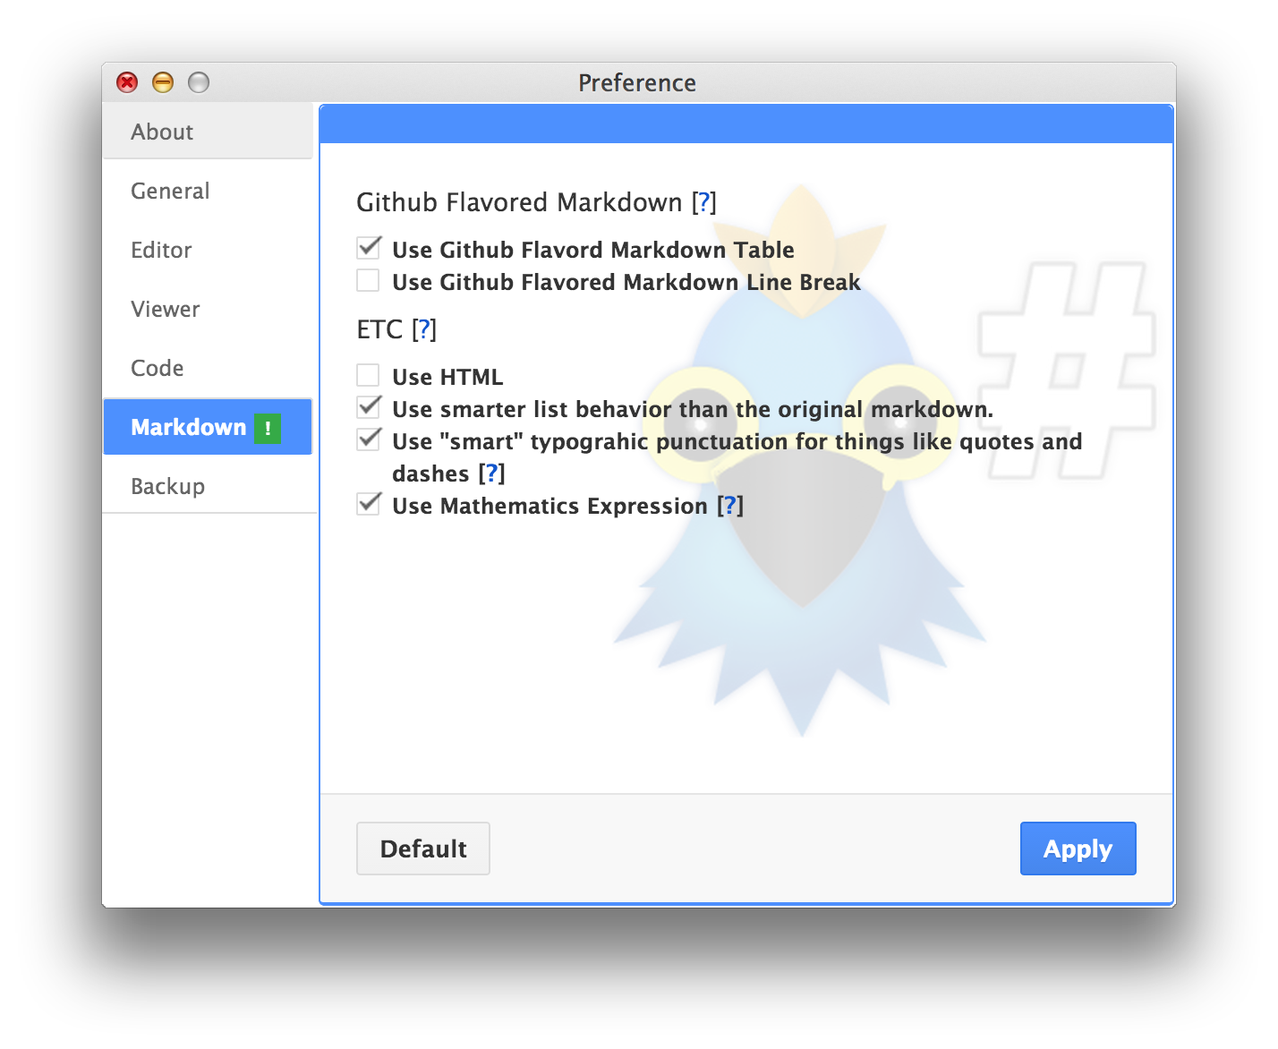
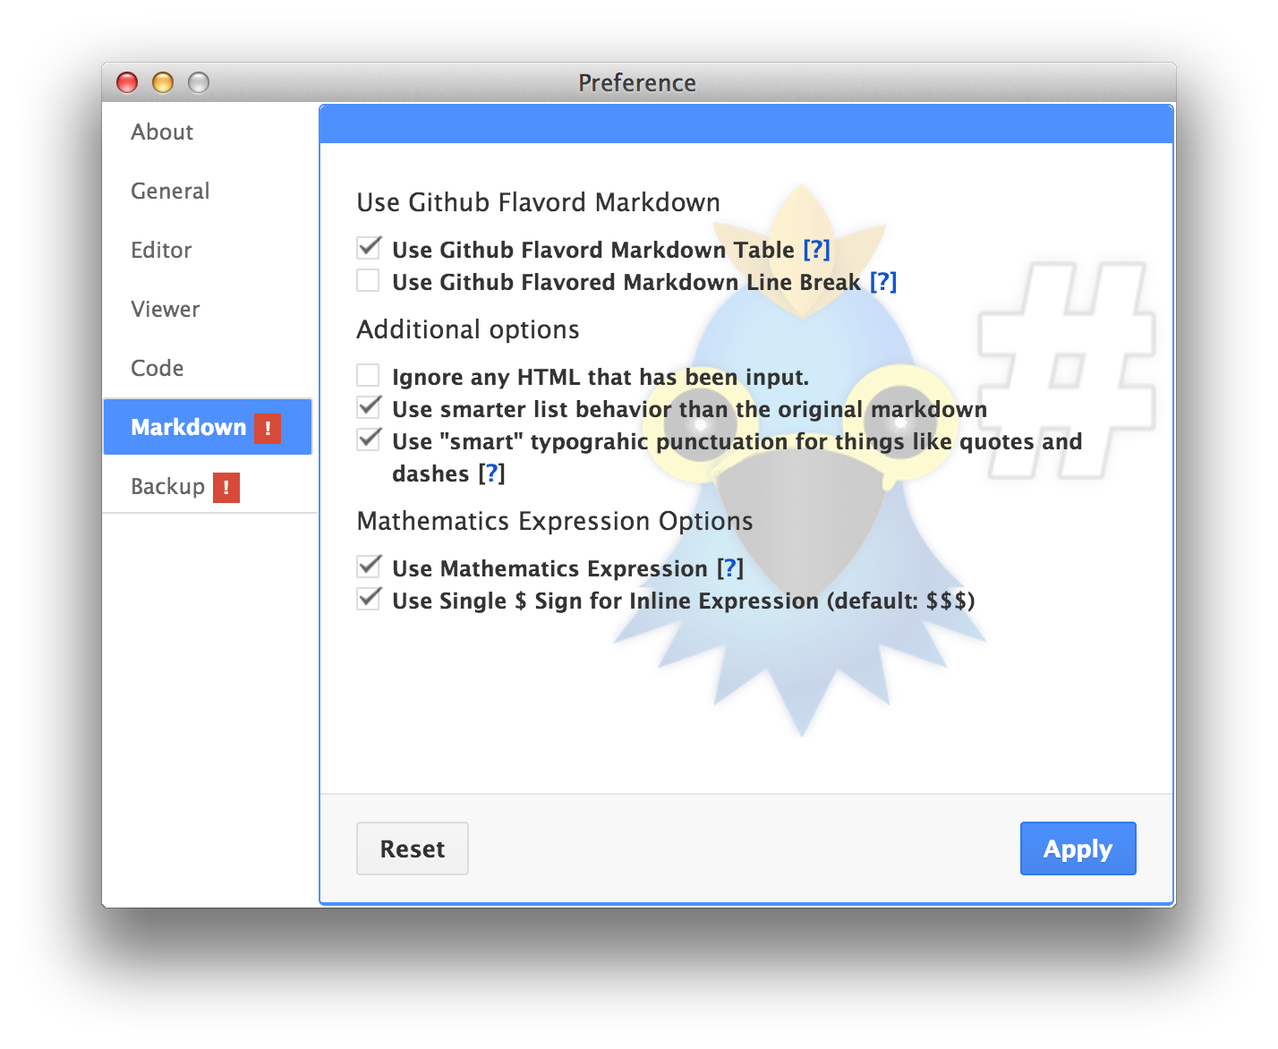
update download link & update manual for v0.11.1

diff --git a/user.html b/user.html
@@ -81,12 +81,12 @@
                       <span class="navbar-unread">1</span>
                     </a>
                     <ul>
-                      <li><a href="https://dl.dropbox.com/s/q7j7feiry65zywu/haroopad-v0.11.0-i386.msi" onclick="_gaq.push(['_trackEvent', 'download', 'window', '0.11.0']);" target="_blank">Window 7, 8</a></li>
-                      <li><a href="https://dl.dropbox.com/s/30wgt7osktvhpb5/haroopad-v0.11.0.dmg" onclick="_gaq.push(['_trackEvent', 'download', 'mac', '0.11.0']);" target="_blank">Mac OS</a></li>
-                      <li><a href="https://dl.dropbox.com/s/c4k13pbp9rt0fi1/haroopad-v0.11.0_i386.tar.gz" onclick="_gaq.push(['_trackEvent', 'download', 'linux32bin', '0.11.0']);" target="_blank">Linux Binary (32bit)</a></li>
-                      <li><a href="https://dl.dropbox.com/s/fhmy9fssd8m0hrr/haroopad-v0.11.0-i386.deb" onclick="_gaq.push(['_trackEvent', 'download', 'linux32deb', '0.11.0']);" target="_blank">Linux Debian Package (32bit)</a></li>
-                      <li><a href="https://dl.dropbox.com/s/oveh9gvbjld46pw/haroopad-v0.11.0_amd64.tar.gz" onclick="_gaq.push(['_trackEvent', 'download', 'linux64bin', '0.11.0']);" target="_blank">Linux Binary (64bit)</a></li>
-                      <li><a href="https://dl.dropbox.com/s/qroboui3on1kxu2/haroopad-v0.11.0_amd64.deb" onclick="_gaq.push(['_trackEvent', 'download', 'linux64deb', '0.11.0']);" target="_blank">Linux Debian Package (64bit)</a></li>
+                      <li><a href="https://dl.dropbox.com/s/aqz9deb54le3b1b/haroopad-v0.11.1-i386.msi" onclick="_gaq.push(['_trackEvent', 'download', 'window', '0.11.1']);" target="_blank">Window 7, 8</a></li>
+                      <li><a href="https://dl.dropbox.com/s/dhclfu538188yox/haroopad-v0.11.1.dmg" onclick="_gaq.push(['_trackEvent', 'download', 'mac', '0.11.1']);" target="_blank">Mac OS</a></li>
+                      <li><a href="https://dl.dropbox.com/s/rnvq59dcytz6z8z/haroopad-v0.11.1_i386.tar.gz" onclick="_gaq.push(['_trackEvent', 'download', 'linux32bin', '0.11.1']);" target="_blank">Linux Binary (32bit)</a></li>
+                      <li><a href="https://dl.dropbox.com/s/d1x3fap7sk57p02/haroopad-v0.11.1-i386.deb" onclick="_gaq.push(['_trackEvent', 'download', 'linux32deb', '0.11.1']);" target="_blank">Linux Debian Package (32bit)</a></li>
+                      <li><a href="https://dl.dropbox.com/s/2ncg44ybixjezzq/haroopad-v0.11.1_amd64.tar.gz" onclick="_gaq.push(['_trackEvent', 'download', 'linux64bin', '0.11.1']);" target="_blank">Linux Binary (64bit)</a></li>
+                      <li><a href="https://dl.dropbox.com/s/2km44jkax2lsarf/haroopad-v0.11.1_amd64.deb" onclick="_gaq.push(['_trackEvent', 'download', 'linux64deb', '0.11.1']);" target="_blank">Linux Debian Package (64bit)</a></li>
                     </ul> <!-- /Sub menu -->
                   </li>
                   <li>
@@ -391,27 +391,27 @@
       <!-- <h1 class="demo-panel-title page-header">Downloads</h1> -->
       <div id="download-area" class="row" style="text-align: center; margin-top:30px">
         <div class="span4">
-          <a href="https://dl.dropbox.com/s/q7j7feiry65zywu/haroopad-v0.11.0-i386.msi" onclick="_gaq.push(['_trackEvent', 'download', 'window', '0.11.0']);" target="_blank">
+          <a href="https://dl.dropbox.com/s/aqz9deb54le3b1b/haroopad-v0.11.1-i386.msi" onclick="_gaq.push(['_trackEvent', 'download', 'window', '0.11.1']);" target="_blank">
             <img src="assets/images/windows-8-logo.jpg" width="160" class="demo-tiles">
           </a>
           </br>
           <h4>window</h4>
-          <span><a href="https://dl.dropbox.com/s/q7j7feiry65zywu/haroopad-v0.11.0-i386.msi" onclick="_gaq.push(['_trackEvent', 'download', 'window', '0.11.0']);" target="_blank">v0.11.0-i386.msi</a></span>
+          <span><a href="https://dl.dropbox.com/s/aqz9deb54le3b1b/haroopad-v0.11.1-i386.msi" onclick="_gaq.push(['_trackEvent', 'download', 'window', '0.11.1']);" target="_blank">v0.11.1-i386.msi</a></span>
         </div>
         <div class="span4">
-          <a href="https://dl.dropbox.com/s/30wgt7osktvhpb5/haroopad-v0.11.0.dmg" onclick="_gaq.push(['_trackEvent', 'download', 'mac', '0.11.0']);" target="_blank">
+          <a href="https://dl.dropbox.com/s/dhclfu538188yox/haroopad-v0.11.1.dmg" onclick="_gaq.push(['_trackEvent', 'download', 'mac', '0.11.1']);" target="_blank">
             <img src="assets/images/Apple2.png" width="138" class="demo-tiles">
           </a>
           </br>
           <h4>mac</h4>
-          <span><a href="https://dl.dropbox.com/s/30wgt7osktvhpb5/haroopad-v0.11.0.dmg" onclick="_gaq.push(['_trackEvent', 'download', 'mac', '0.11.0']);" target="_blank">v0.11.0.dmg</a></span>
+          <span><a href="https://dl.dropbox.com/s/dhclfu538188yox/haroopad-v0.11.1.dmg" onclick="_gaq.push(['_trackEvent', 'download', 'mac', '0.11.1']);" target="_blank">v0.11.1.dmg</a></span>
         </div>
         <div class="span4">
           <img src="assets/images/Ubuntu_logo_copyleft_1.svg.png" width="160" class="demo-tiles">
           </br>
           <h4>linux</h4>
-          <span><a href="https://dl.dropbox.com/s/c4k13pbp9rt0fi1/haroopad-v0.11.0_i386.tar.gz" onclick="_gaq.push(['_trackEvent', 'download', 'linux32bin', '0.11.0']);" target="_blank">v0.11.0_i386.tar.gz</a> / <a href="https://dl.dropbox.com/s/fhmy9fssd8m0hrr/haroopad-v0.11.0-i386.deb" onclick="_gaq.push(['_trackEvent', 'download', 'linux32deb', '0.11.0']);" target="_blank">v0.11.0-i386.deb</a></span><br/>
-          <span><a href="https://dl.dropbox.com/s/oveh9gvbjld46pw/haroopad-v0.11.0_amd64.tar.gz" onclick="_gaq.push(['_trackEvent', 'download', 'linux64bin', '0.11.0']);" target="_blank">v0.11.0_amd64.tar.gz</a> / <a href="https://dl.dropbox.com/s/qroboui3on1kxu2/haroopad-v0.11.0_amd64.deb" onclick="_gaq.push(['_trackEvent', 'download', 'linux64bin', '0.11.0']);" target="_blank">v0.11.0_amd64.deb</a></span>
+          <span><a href="https://dl.dropbox.com/s/rnvq59dcytz6z8z/haroopad-v0.11.1_i386.tar.gz" onclick="_gaq.push(['_trackEvent', 'download', 'linux32bin', '0.11.1']);" target="_blank">v0.11.1_i386.tar.gz</a> / <a href="https://dl.dropbox.com/s/d1x3fap7sk57p02/haroopad-v0.11.1-i386.deb" onclick="_gaq.push(['_trackEvent', 'download', 'linux32deb', '0.11.1']);" target="_blank">v0.11.1-i386.deb</a></span><br/>
+          <span><a href="https://dl.dropbox.com/s/2ncg44ybixjezzq/haroopad-v0.11.1_amd64.tar.gz" onclick="_gaq.push(['_trackEvent', 'download', 'linux64bin', '0.11.1']);" target="_blank">v0.11.1_amd64.tar.gz</a> / <a href="https://dl.dropbox.com/s/2km44jkax2lsarf/haroopad-v0.11.1_amd64.deb" onclick="_gaq.push(['_trackEvent', 'download', 'linux64bin', '0.11.1']);" target="_blank">v0.11.1_amd64.deb</a></span>
         </div>
 
         <a name="support"></a>
@@ -552,7 +552,7 @@
     <!--div style="background-color: #2980B9; color: #ECF0F1;">
       <div class="rule" style=""><i></i></div>
       <div class="container">
-      <h1 class="demo-panel-title page-header">v0.11.0 Major Features</h1>
+      <h1 class="demo-panel-title page-header">v0.11.1 Major Features</h1>
         <div class="row demo-tiles">
           <div class="span12">
             <h3>Markdown Autocompletion</h3>
@@ -561,7 +561,7 @@
             <img src="/assets/images/intro/10.png" />
           </div>
           <div class="span6 text-center">
-            <img src="/assets/images/0.11.0/v0.11.0-002.gif" />
+            <img src="/assets/images/0.11.1/v0.11.1-002.gif" />
           </div>
         </div>
         <div class="row demo-tiles">
@@ -569,10 +569,10 @@
             <h3>Table of Contents</h3>
           </div>
           <div class="span6 text-center">
-            <img src="/assets/images/0.11.0/v0.11.0-toc3.png" />
+            <img src="/assets/images/0.11.1/v0.11.1-toc3.png" />
           </div>
           <div class="span6 text-center">
-            <img src="/assets/images/0.11.0/v0.11.0-toc2.png" />
+            <img src="/assets/images/0.11.1/v0.11.1-toc2.png" />
           </div>
         </div>
       </div>

diff --git a/page.html b/page.html
@@ -102,13 +102,14 @@
               <li><a href="?f=markdown">Markdown?</a></li>
               <li><a href="?f=syntax">Markdown syntax</a></li>
               <li><a href="?f=markdown-extras">Extra Markdown</a></li>
-              <li><a href="?f=haroopad-flavored-markdown">Haroopad Flavored Markdown <span class="label label-info">info</span></a></li>
+              <li><a href="?f=multimarkdown">MultiMarkdown <span class="label label-important">new</span></a></li>
+              <li><a href="?f=haroopad-flavored-markdown">Haroopad Flavored Markdown <span class="label label-info">update</span></a></li>
               <li><a href="?f=markdown-doc-logos">Markdown Logo Ideas</a></li>
               <li class="nav-header">Markdown</li>
-              <li><a href="?f=markdown-toc">Table of Contents <span class="label label-important"> new</span></a></li>
-              <li><a href="?f=how-to-use-image-align">Image Alignment <span class="label label-important">new</span></a></li>
-              <li><a href="?f=how-to-write-table">Writing Table <span class="label label-important">new</span></a></li>
-              <li><a href="?f=how-to-write-fenced-code-block">Fenced Code Block <span class="label label-important">new</span></a></li>
+              <li><a href="?f=markdown-toc">Table of Contents <span class="label label-info">update</span></a></li>
+              <li><a href="?f=how-to-write-audio-and-video">Audio and Video <span class="label label-important">new</span></a></li><li><a href="?f=how-to-use-image-align">Image Alignment</a></li>
+              <li><a href="?f=how-to-write-table">Writing Table</a></li>
+              <li><a href="?f=how-to-write-fenced-code-block">Fenced Code Block</a></li>
               <li>
                 <a href="?f=smart-embedding-rich-media">Embedding Rich Media</a>
                 <ul>
@@ -139,9 +140,9 @@
                 <ul>
                   <li><a href="?f=configuration-editor">Configuration Editor</a></li>
                   <li><a href="?f=configuration-viewer">Configuration Viewer</a></li>
-                  <li><a href="?f=preferences-markdown-options">Markdown Options<span class="label label-important"> new</span></a></li>
-                  <li><a href="?f=import-and-export-settings">Import and Export Settings<span class="label label-important"> new</span></a></li>
-                  <li><a href="?f=customizing-editor-style">Customizing Editor Style<span class="label label-important"> new</span></a></li>
+                  <li><a href="?f=preferences-markdown-options">Markdown Options <span class="label label-info">update</span></a></li>
+                  <li><a href="?f=import-and-export-settings">Import and Export Settings</a></li>
+                  <li><a href="?f=customizing-editor-style">Customizing Editor Style</a></li>
                   <!-- <li><a href="?f=preferences-custom-theme">Configuration Custom Theme</a></li> -->
                   <li><a href="?f=font-size">Font Size</a></li>
                 </ul>

diff --git a/docs/en/multimarkdown/index.md b/docs/en/multimarkdown/index.md
@@ -1,0 +1,23 @@
+# Multi-Markdown
+
+### Underline
+
+```markdown
+An ++underline++, also called an underscore is one or more ++horizontal lines++ immediately below a portion of writing.
+```
+
+An ++underline++, also called an underscore is one or more ++horizontal lines++ immediately below a portion of writing.
+
+### Superscript & Subscript
+
+A subscript or superscript is a number, figure, symbol, or indicator that is smaller than the normal line of type and is set slightly below or above it – subscripts appear at or below the baseline, while superscripts are above. Subscripts and superscripts are perhaps best known for their use in formulas, mathematical expressions, and specifications of chemical compounds and isotopes, but have many other uses as well.
+
+```markdown
+Ordinal indicators are sometimes written as superscripts (1^st^, 2^nd^, 3^rd^, 4^th^, rather than 1st, 2nd, 3rd, 4th), although many English-language style guides recommend against this use. Other languages use a similar convention, such as 1^er^ or 2^e^ in French, or 4ª and 4º in Italian, Portuguese, and Spanish.
+
+Also in mathematics and computing, a subscript can be used to represent the radix, or base, of a written number, especially where multiple bases are used alongside each other. For example, comparing values in hexadecimal, denary, and octal one might write C~hex~ = 12~dec~ = 14~oct~.
+```
+
+Ordinal indicators are sometimes written as superscripts (1^st^, 2^nd^, 3^rd^, 4^th^, rather than 1st, 2nd, 3rd, 4th), although many English-language style guides recommend against this use. Other languages use a similar convention, such as 1^er^ or 2^e^ in French, or 4ª and 4º in Italian, Portuguese, and Spanish.
+
+Also in mathematics and computing, a subscript can be used to represent the radix, or base, of a written number, especially where multiple bases are used alongside each other. For example, comparing values in hexadecimal, denary, and octal one might write C~hex~ = 12~dec~ = 14~oct~.

diff --git a/docs/ko/multimarkdown/index.md b/docs/ko/multimarkdown/index.md
@@ -1,0 +1,23 @@
+# Multi-Markdown
+
+### Underline
+
+```markdown
+An ++underline++, also called an underscore is one or more ++horizontal lines++ immediately below a portion of writing.
+```
+
+An ++underline++, also called an underscore is one or more ++horizontal lines++ immediately below a portion of writing.
+
+### Superscript & Subscript
+
+A subscript or superscript is a number, figure, symbol, or indicator that is smaller than the normal line of type and is set slightly below or above it – subscripts appear at or below the baseline, while superscripts are above. Subscripts and superscripts are perhaps best known for their use in formulas, mathematical expressions, and specifications of chemical compounds and isotopes, but have many other uses as well.
+
+```markdown
+Ordinal indicators are sometimes written as superscripts (1^st^, 2^nd^, 3^rd^, 4^th^, rather than 1st, 2nd, 3rd, 4th), although many English-language style guides recommend against this use. Other languages use a similar convention, such as 1^er^ or 2^e^ in French, or 4ª and 4º in Italian, Portuguese, and Spanish.
+
+Also in mathematics and computing, a subscript can be used to represent the radix, or base, of a written number, especially where multiple bases are used alongside each other. For example, comparing values in hexadecimal, denary, and octal one might write C~hex~ = 12~dec~ = 14~oct~.
+```
+
+Ordinal indicators are sometimes written as superscripts (1^st^, 2^nd^, 3^rd^, 4^th^, rather than 1st, 2nd, 3rd, 4th), although many English-language style guides recommend against this use. Other languages use a similar convention, such as 1^er^ or 2^e^ in French, or 4ª and 4º in Italian, Portuguese, and Spanish.
+
+Also in mathematics and computing, a subscript can be used to represent the radix, or base, of a written number, especially where multiple bases are used alongside each other. For example, comparing values in hexadecimal, denary, and octal one might write C~hex~ = 12~dec~ = 14~oct~.

diff --git a/docs/ko/preferences-markdown-options/index.md b/docs/ko/preferences-markdown-options/index.md
@@ -6,7 +6,7 @@
 
 이러한 부분들을 해소하기 위해 하루패드에서는 몇가지 옵션을 제공합니다.
 
-![](./images/001.png)
+![](images/001.png)
 
 ### Github Flavored Markdown 설정
 
@@ -27,7 +27,6 @@
 * Use HTML
 * Use smarter list behavior than the original markdown
 * Use "smart" typographic punctuation for things like quotes and dashes
-* Use Mathematics Expression
 
 기타 옵션은 하나씩 살펴봅니다.
 
@@ -54,8 +53,19 @@
 > * `...` 말줄임 표현을 `…` 으로 변경
 
 
+### 수학표현식
+
+* Use Mathematics Expression
+* Use Signle $ sign for inline Expression (default: $$$)
+
 ##### Use Mathematics Expression
 
-수학 표현식은 본래 마크다운과는 별도로 LaTeX 문법을 사용하고 있지만 마크다운과 유연하게 연결되는 많이 사용됩니다.
+수학 표현식은 본래 마크다운과는 별도로 LaTeX 문법을 사용하고 있지만 마크다운과 유연하게 연계되어 많이 사용됩니다.
 
-하루패드에서 `$$`, `$$$` 을 통해 LaTeX 구문을 파싱하여 수학 표현식을 렌더링하게 됩니다. 
+하루패드에서 `$` 을 통해 LaTeX 구문을 파싱하여 수학 표현식을 렌더링하게 됩니다. 
+
+##### * Use Signle $ sign for inline Expression
+
+수학 표현식을 위해 사용되는 `$` 기호는 미국의 화폐 단위인 $ 기호를 사용하기 때문에 단일 $ 기호를 사용할 경우 마크다운 파싱에 오류가 발생할 수 있습니다.
+
+하지만 마크다운의 목표에 좀더 가깝게 인라인 수학 표현식에서 단일 $ 기호를 사용할 수 있도록 옵션을 제공합니다.

diff --git a/docs/en/preferences-markdown-options/index.md b/docs/en/preferences-markdown-options/index.md
@@ -27,7 +27,6 @@
 * Use HTML
 * Use smarter list behavior than the original markdown
 * Use "smart" typographic punctuation for things like quotes and dashes
-* Use Mathematics Expression
 
 기타 옵션은 하나씩 살펴봅니다.
 
@@ -54,8 +53,19 @@
 > * `...` 말줄임 표현을 `…` 으로 변경
 
 
+### 수학표현식
+
+* Use Mathematics Expression
+* Use Signle $ sign for inline Expression (default: $$$)
+
 ##### Use Mathematics Expression
 
-수학 표현식은 본래 마크다운과는 별도로 LaTeX 문법을 사용하고 있지만 마크다운과 유연하게 연결되는 많이 사용됩니다.
+수학 표현식은 본래 마크다운과는 별도로 LaTeX 문법을 사용하고 있지만 마크다운과 유연하게 연계되어 많이 사용됩니다.
 
-하루패드에서 `$$`, `$$$` 을 통해 LaTeX 구문을 파싱하여 수학 표현식을 렌더링하게 됩니다. 
+하루패드에서 `$` 을 통해 LaTeX 구문을 파싱하여 수학 표현식을 렌더링하게 됩니다. 
+
+##### * Use Signle $ sign for inline Expression
+
+수학 표현식을 위해 사용되는 `$` 기호는 미국의 화폐 단위인 $ 기호를 사용하기 때문에 단일 $ 기호를 사용할 경우 마크다운 파싱에 오류가 발생할 수 있습니다.
+
+하지만 마크다운의 목표에 좀더 가깝게 인라인 수학 표현식에서 단일 $ 기호를 사용할 수 있도록 옵션을 제공합니다.

diff --git a/docs/en/release-notes/index.md b/docs/en/release-notes/index.md
@@ -27,12 +27,12 @@ Issue Number     | Description
 
 ##### Download
 
-> * Windows MSI: https://www.dropbox.com/s/aqz9deb54le3b1b/haroopad-v0.11.1-i386.msi
-> * Mac OS X DMG: https://www.dropbox.com/s/dhclfu538188yox/haroopad-v0.11.1.dmg
-> * Linux 32-bit Binary: https://www.dropbox.com/s/rnvq59dcytz6z8z/haroopad-v0.11.1_i386.tar.gz
-> * Linux 32-bit Debian Package: https://www.dropbox.com/s/d1x3fap7sk57p02/haroopad-v0.11.1-i386.deb
-> * Linux 64-bit Binary: https://www.dropbox.com/s/2ncg44ybixjezzq/haroopad-v0.11.1_amd64.tar.gz
-> * Linux 64-bit Debian Package: https://www.dropbox.com/s/2km44jkax2lsarf/haroopad-v0.11.1_amd64.deb
+> * Windows MSI: https://dl.dropbox.com/s/aqz9deb54le3b1b/haroopad-v0.11.1-i386.msi
+> * Mac OS X DMG: https://dl.dropbox.com/s/dhclfu538188yox/haroopad-v0.11.1.dmg
+> * Linux 32-bit Binary: https://dl.dropbox.com/s/rnvq59dcytz6z8z/haroopad-v0.11.1_i386.tar.gz
+> * Linux 32-bit Debian Package: https://dl.dropbox.com/s/d1x3fap7sk57p02/haroopad-v0.11.1-i386.deb
+> * Linux 64-bit Binary: https://dl.dropbox.com/s/2ncg44ybixjezzq/haroopad-v0.11.1_amd64.tar.gz
+> * Linux 64-bit Debian Package: https://dl.dropbox.com/s/2km44jkax2lsarf/haroopad-v0.11.1_amd64.deb
 
 ## Haroopad v0.11.0
 

diff --git a/docs/ko/release-notes/index.md b/docs/ko/release-notes/index.md
@@ -27,12 +27,12 @@ Issue Number     | Description
 
 ##### Download
 
-> * Windows MSI: https://www.dropbox.com/s/aqz9deb54le3b1b/haroopad-v0.11.1-i386.msi
-> * Mac OS X DMG: https://www.dropbox.com/s/dhclfu538188yox/haroopad-v0.11.1.dmg
-> * Linux 32-bit Binary: https://www.dropbox.com/s/rnvq59dcytz6z8z/haroopad-v0.11.1_i386.tar.gz
-> * Linux 32-bit Debian Package: https://www.dropbox.com/s/d1x3fap7sk57p02/haroopad-v0.11.1-i386.deb
-> * Linux 64-bit Binary: https://www.dropbox.com/s/2ncg44ybixjezzq/haroopad-v0.11.1_amd64.tar.gz
-> * Linux 64-bit Debian Package: https://www.dropbox.com/s/2km44jkax2lsarf/haroopad-v0.11.1_amd64.deb
+> * Windows MSI: https://dl.dropbox.com/s/aqz9deb54le3b1b/haroopad-v0.11.1-i386.msi
+> * Mac OS X DMG: https://dl.dropbox.com/s/dhclfu538188yox/haroopad-v0.11.1.dmg
+> * Linux 32-bit Binary: https://dl.dropbox.com/s/rnvq59dcytz6z8z/haroopad-v0.11.1_i386.tar.gz
+> * Linux 32-bit Debian Package: https://dl.dropbox.com/s/d1x3fap7sk57p02/haroopad-v0.11.1-i386.deb
+> * Linux 64-bit Binary: https://dl.dropbox.com/s/2ncg44ybixjezzq/haroopad-v0.11.1_amd64.tar.gz
+> * Linux 64-bit Debian Package: https://dl.dropbox.com/s/2km44jkax2lsarf/haroopad-v0.11.1_amd64.deb
 
 
 ## Haroopad v0.11.0

diff --git a/docs/en/markdown-toc/index.md b/docs/en/markdown-toc/index.md
@@ -25,6 +25,29 @@ Chapter 1: Getting Started . . . . . . . . . . . 1
 
 물론 이 목차는 문서내, PDF/HTML 출력도 가능하며 메일을 보낼때에도 그대로 표현됩니다.
 
+### Table of Contents Syntax
+
+**마크다운 표현법**
+
+```markdown
+[TOC] or [toc]
+```
+
+**결과**
+
+[TOC]
+
+#### Alignment
+
+기본적으로 목차(TOC) 문법은 블럭 요소로 렌더링됩니다. 하지만 경우에 따라 문서내에 요소로 표현하기 위해 정렬 속성을 지정하기도 합니다. 하루패드에서는 다음과 같이 정렬뿐아니라 스타일 시트를 속성을 제공합니다.
+
+```markdown
+[TOC "float:right"]
+```
+
+위와 같이 하면 목차가 우측으로 정렬이 되고 문서내 플로팅 됩니다. 거꾸로 `float:left` 를 지정할 경우 왼쪽 정렬으로 설정됩니다.
+
+
 ### 목차 추가기능
 
 마크다운 문서내에 자동으로 목차를 추가하기 위한 마크다운 구문은 `[TOC]` 이지만 문서 작성 시 목차를 한눈에 보며 해당 단락으로 이동하기 위해 고정형태의 목차 기능을 별도로 제공합니다.

diff --git a/docs/ko/markdown-toc/index.md b/docs/ko/markdown-toc/index.md
@@ -25,6 +25,29 @@ Chapter 1: Getting Started . . . . . . . . . . . 1
 
 물론 이 목차는 문서내, PDF/HTML 출력도 가능하며 메일을 보낼때에도 그대로 표현됩니다.
 
+### Table of Contents Syntax
+
+**마크다운 표현법**
+
+```markdown
+[TOC] or [toc]
+```
+
+**결과**
+
+[TOC]
+
+#### Alignment
+
+기본적으로 목차(TOC) 문법은 블럭 요소로 렌더링됩니다. 하지만 경우에 따라 문서내에 요소로 표현하기 위해 정렬 속성을 지정하기도 합니다. 하루패드에서는 다음과 같이 정렬뿐아니라 스타일 시트를 속성을 제공합니다.
+
+```markdown
+[TOC "float:right"]
+```
+
+위와 같이 하면 목차가 우측으로 정렬이 되고 문서내 플로팅 됩니다. 거꾸로 `float:left` 를 지정할 경우 왼쪽 정렬으로 설정됩니다.
+
+
 ### 목차 추가기능
 
 마크다운 문서내에 자동으로 목차를 추가하기 위한 마크다운 구문은 `[TOC]` 이지만 문서 작성 시 목차를 한눈에 보며 해당 단락으로 이동하기 위해 고정형태의 목차 기능을 별도로 제공합니다.

diff --git a/docs/en/haroopad-flavored-markdown/index.md b/docs/en/haroopad-flavored-markdown/index.md
@@ -20,14 +20,6 @@ Syntax ==highlighting==, **display of text** in different colors and/or fonts, d
 
 Syntax ==highlighting==, **display of text** in different colors and/or fonts, depending upon its meaning in context (e.g. different parts of speech in a sentence, or ==function== vs. ==variables names== in computer source code)
 
-### Underline
-
-```markdown
-An _underline_, also called an underscore is one or more horizontal lines immediately below a portion of writing.
-```
-
-An _underline_, also called an underscore is one or more _horizontal lines_ immediately below a portion of writing.
-
 ### Table of Contents
 
 A table of contents, usually headed simply "Contents" and abbreviated informally as TOC, is a list of the parts of a book or document organized in the order in which the parts appear.
@@ -46,8 +38,8 @@ A table of contents, usually headed simply "Contents" and abbreviated informally
 ```
 
 * [Chapter 1: Getting Started]()
-	- [Introduction]()
-	- [Next Steps]()
+  - [Introduction]()
+  - [Next Steps]()
 
 **example**
 

diff --git a/docs/ko/haroopad-flavored-markdown/index.md b/docs/ko/haroopad-flavored-markdown/index.md
@@ -20,14 +20,6 @@ Syntax ==highlighting==, **display of text** in different colors and/or fonts, d
 
 Syntax ==highlighting==, **display of text** in different colors and/or fonts, depending upon its meaning in context (e.g. different parts of speech in a sentence, or ==function== vs. ==variables names== in computer source code)
 
-### Underline
-
-```markdown
-An _underline_, also called an underscore is one or more horizontal lines immediately below a portion of writing.
-```
-
-An _underline_, also called an underscore is one or more _horizontal lines_ immediately below a portion of writing.
-
 ### Table of Contents
 
 A table of contents, usually headed simply "Contents" and abbreviated informally as TOC, is a list of the parts of a book or document organized in the order in which the parts appear.
